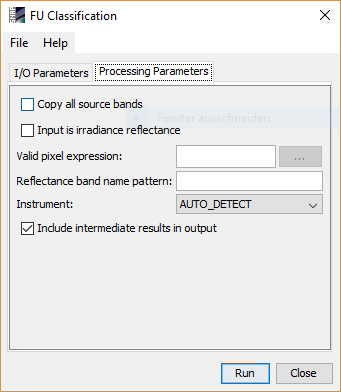
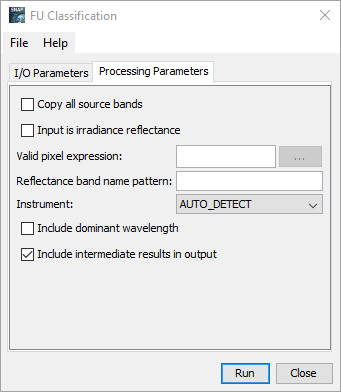
added option to include dominant wavelength in the output

diff --git a/s3tbx-fu-operator/src/main/javahelp/org/esa/s3tbx/s3tbx/fu/operator/docs/FuOp.html b/s3tbx-fu-operator/src/main/javahelp/org/esa/s3tbx/s3tbx/fu/operator/docs/FuOp.html
@@ -41,8 +41,10 @@ FU classification can be invoked in the Sentinel Toolbox from tool menu by selec
 
 <h4>Source Product Group</h4>
 
-<b>Source product:</b> Here the user specifies the source product reflectance. The combo box presents a list of all products opened
-in the Sentinel Toolbox. The user may select one of these or, by clicking on the button next to the combo box, choose a product
+<b>Source product:</b> Here the user specifies the source product reflectance. The combo box presents a list of all
+products opened
+in the Sentinel Toolbox. The user may select one of these or, by clicking on the button next to the combo box, choose a
+product
 from the file system.
 <br>
 
@@ -51,7 +53,8 @@ from the file system.
 <br>
 <br>
 
-<b>Save as:</b> checkbox to specify whether the target product should be saved to the file system. The combo box presents a
+<b>Save as:</b> checkbox to specify whether the target product should be saved to the file system. The combo box
+presents a
 list of available file formats. The text field or the button next to it allow to specify a target directory.
 <br>
 <br>
@@ -71,10 +74,13 @@ target product is not saved, it is opened in the Sentinel Toolbox automatically.
 <p><b>Multiply input reflectance with PI:</b><br>
     Checking this option will multiply the reflectance with PI.</p>
 <p><b>Valid pixel expression:</b><br>
-    This expression is used to validate pixels. Only valid pixels will be considerd for processing. If no expression is specified
-    the first applicable expression for the input product will be applied as in <a href="#valid_expressions"> Valid expressions</a>. If the
+    This expression is used to validate pixels. Only valid pixels will be considerd for processing. If no expression is
+    specified
+    the first applicable expression for the input product will be applied as in <a href="#valid_expressions"> Valid
+        expressions</a>. If the
     expression is set to
-    <b>TRUE</b>, then all pixels are considered to be valid. The ellipsis-button can be used to create a valid expression.</p>
+    <b>TRUE</b>, then all pixels are considered to be valid. The ellipsis-button can be used to create a valid
+    expression.</p>
 <br>
 <p>Default valid expressions</p>
 <table id="valid_expressions">
@@ -112,11 +118,14 @@ target product is not saved, it is opened in the Sentinel Toolbox automatically.
 
 <br>
 <p><b>Reflectance band name pattern:</b><br>
-    The used reflectance band names must match the given pattern. Useful, if there is more then one spectrum in the product.
-    Here a regular expression can be used.  There is a nice tutorial on <object classid="java:org.netbeans.modules.javahelp.BrowserDisplayer">
+    The used reflectance band names must match the given pattern. Useful, if there is more then one spectrum in the
+    product.
+    Here a regular expression can be used. There is a nice tutorial on
+    <object classid="java:org.netbeans.modules.javahelp.BrowserDisplayer">
         <param name="content" value="http://www.vogella.com/tutorials/JavaRegularExpressions/article.html">
         <param name="text" value="vogella.com">
-    </object>.
+    </object>
+    .
 </p>
 <p>Example expressions:</p>
 <table>
@@ -126,15 +135,29 @@ target product is not saved, it is opened in the Sentinel Toolbox automatically.
     </tr>
     <tr>
         <td>reflec_\d\d_band</td>
-        <td>Will match any name witch starts with 'reflec_' and ends with '_band'. in the middle must be two digits. E.g.: reflec_12_band</td>
+        <td>Will match any name witch starts with 'reflec_' and ends with '_band'. in the middle must be two digits.
+            E.g.: reflec_12_band
+        </td>
     </tr>
 
 </table>
 
-<p><b>Instrument:</b><br> Allows to select which instrument specific settings shall be used, if the auto detection fails.</p>
+<p><b>Instrument:</b><br> Allows to select which instrument specific settings shall be used, if the auto detection
+    fails.</p>
 
+<p><b>Include dominant wavelength:</b><br>
+    Whether or not to compute and include the dominant wavelength in the output. The default value is "false".<br><br>
+    A laser emits light at just one wavelength. When this pure light is observed by the human eye we can calculate the
+    chromaticity coordinates and the hue angle in the x-y diagram. The wavelength is called the "dominant wavelength"
+    and is positioned on the locus, the outer boundary in the x-y diagram that can be observed.<br><br>
+    The conversion from the hue angle to the dominant wavelength is done by a look-up-table.
+</p>
 <p><b>Include intermediate results in output:</b><br>
-    Whether or not the intermediate results shall be written to the target output. The default value is "true".</p>
+    Whether or not the intermediate results shall be written to the target output. The default value is "true".<br>
+    Intermediate results are results which are calculated during the computation of the hue angle.
+    The following bands belong to the intermediate results:<br>
+    X3, Y3, Z3, chrX, chrY, hue_band, poly_corr
+</p>
 
 
 <br>

diff --git a/s3tbx-fu-operator/src/main/java/org/esa/s3tbx/fu/DominantLambdaLookup.java b/s3tbx-fu-operator/src/main/java/org/esa/s3tbx/fu/DominantLambdaLookup.java
@@ -1,0 +1,91 @@
+/*
+ * Copyright (c) 2021.  Brockmann Consult GmbH (info@brockmann-consult.de)
+ *
+ * This program is free software; you can redistribute it and/or modify it
+ * under the terms of the GNU General Public License as published by the Free
+ * Software Foundation; either version 3 of the License, or (at your option)
+ * any later version.
+ * This program is distributed in the hope that it will be useful, but WITHOUT
+ * ANY WARRANTY; without even the implied warranty of MERCHANTABILITY or
+ * FITNESS FOR A PARTICULAR PURPOSE. See the GNU General Public License for
+ * more details.
+ *
+ * You should have received a copy of the GNU General Public License along
+ * with this program; if not, see http://www.gnu.org/licenses/
+ *
+ *
+ */
+
+package org.esa.s3tbx.fu;
+
+import org.esa.snap.core.util.io.CsvReader;
+import org.esa.snap.core.util.math.LookupTable;
+
+import java.io.IOException;
+import java.io.InputStream;
+import java.io.InputStreamReader;
+import java.nio.charset.StandardCharsets;
+import java.util.List;
+
+/**
+ * @author Marco Peters
+ */
+public class DominantLambdaLookup {
+
+    private final static String DEFAULT_LUT_RESOURCE = "hueAngel_domLambda.csv";
+    private static final String LUT_NOT_READABLE_ERRMSG = "Could not read LUT for converting hue angle to dominant wavelength.";
+    private LookupTable lookupTable;
+
+    /**
+     * Creates the default instance using the look-up-table provided in the resources at 'hueAngel_domLambda.csv'.
+     */
+    public DominantLambdaLookup() {
+        this(readLutValues());
+    }
+
+    private DominantLambdaLookup(double[][] lutValues) {
+        this(lutValues[0], lutValues[1]);
+    }
+
+    public DominantLambdaLookup(double[] hueAngles, double[] domLambda) {
+        if (hueAngles.length != domLambda.length) {
+            throw new IllegalStateException("Number of values for hue angles and dominant Wavelength must be equal");
+        }
+        lookupTable = new LookupTable(domLambda, hueAngles);
+    }
+
+    public double getDominantLambda(double hueAngle) {
+        if (hueAngle < 0) {
+            return Double.NaN;
+        }
+        return lookupTable.getValue(hueAngle);
+    }
+
+    private static double[][] readLutValues() {
+        final InputStream stream = DominantLambdaLookup.class.getResourceAsStream(DEFAULT_LUT_RESOURCE);
+        if (stream == null) {
+            throw new IllegalStateException(LUT_NOT_READABLE_ERRMSG);
+        }
+        return createLutValues(stream);
+    }
+
+    private static double[][] createLutValues(InputStream stream) {
+        final List<double[]> lutValues;
+        try (CsvReader csvReader = new CsvReader(new InputStreamReader(stream, StandardCharsets.UTF_8),
+                                                 new char[]{';'}, true, "#")) {
+            lutValues = csvReader.readDoubleRecords();
+        } catch (IOException e) {
+            throw new IllegalStateException(LUT_NOT_READABLE_ERRMSG, e);
+        }
+
+        final double[] hueAngle = new double[lutValues.size()];
+        final double[] domLambda = new double[lutValues.size()];
+        for (int i = 0; i < lutValues.size(); i++) {
+            double[] doubles = lutValues.get(i);
+            hueAngle[i] = doubles[0];
+            domLambda[i] = doubles[1];
+        }
+
+        return new double[][]{hueAngle, domLambda};
+    }
+}

diff --git a/s3tbx-fu-operator/src/main/java/org/esa/s3tbx/fu/FuOp.java b/s3tbx-fu-operator/src/main/java/org/esa/s3tbx/fu/FuOp.java
@@ -109,11 +109,15 @@ public class FuOp extends PixelOperator {
     private String validExpression;
 
     @Parameter(label = "Reflectance band name pattern", description = "The used reflectance band names must match the given pattern. " +
-                                                                      "Useful, if there is more then one spectrum in the product.")
+            "Useful, if there is more then one spectrum in the product.")
     private String reflectanceNamePattern;
 
     @Parameter(defaultValue = "AUTO_DETECT", description = "The instrument to compute FU for.")
     private Instrument instrument;
+
+    @Parameter(label = "Include dominant wavelength", defaultValue = "false",
+            description = "Whether or not the dominant wavelength shall be derived from the hue angle")
+    private boolean includeDominantLambda;
 
     @Parameter(label = "Include intermediate results in output", defaultValue = "true",
             description = "Whether or not the intermediate results shall be written to the target output")
@@ -151,7 +155,7 @@ public class FuOp extends PixelOperator {
 
         if (isValid) {
             RasterDataNode[] sourceNodes = Arrays.stream(sourceSamples).map(Sample::getNode).toArray(RasterDataNode[]::new);
-            double spectrum[] = getInputSpectrum(sourceSamples);
+            double[] spectrum = getInputSpectrum(sourceSamples);
             spectrum = instrument.preProcess(sourceProduct, sourceNodes, spectrum);
             spectrum = applyPiToIrradianceSpectrum(spectrum);
 
@@ -192,10 +196,10 @@ public class FuOp extends PixelOperator {
 
             autoDetectedInstrument = true;
         }
-        fuAlgo = new FuAlgo(instrument);
+        fuAlgo = new FuAlgo(instrument, includeDominantLambda);
         reflecBandNames = instrument.getReflectanceBandNames(sourceProduct, reflectanceNamePattern);
 
-        targetBandDefs = BandDefinition.create(includeIntermediateResults, instrument);
+        targetBandDefs = BandDefinition.create(instrument, includeIntermediateResults, includeDominantLambda);
     }
 
     /**

diff --git a/s3tbx-fu-operator/src/test/java/org/esa/s3tbx/fu/DominantLambdaLookupTest.java b/s3tbx-fu-operator/src/test/java/org/esa/s3tbx/fu/DominantLambdaLookupTest.java
@@ -1,0 +1,44 @@
+/*
+ * Copyright (c) 2021.  Brockmann Consult GmbH (info@brockmann-consult.de)
+ *
+ * This program is free software; you can redistribute it and/or modify it
+ * under the terms of the GNU General Public License as published by the Free
+ * Software Foundation; either version 3 of the License, or (at your option)
+ * any later version.
+ * This program is distributed in the hope that it will be useful, but WITHOUT
+ * ANY WARRANTY; without even the implied warranty of MERCHANTABILITY or
+ * FITNESS FOR A PARTICULAR PURPOSE. See the GNU General Public License for
+ * more details.
+ *
+ * You should have received a copy of the GNU General Public License along
+ * with this program; if not, see http://www.gnu.org/licenses/
+ *
+ *
+ */
+
+package org.esa.s3tbx.fu;
+
+import org.junit.Test;
+
+import static org.junit.Assert.assertEquals;
+
+/**
+ * @author Marco Peters
+ */
+public class DominantLambdaLookupTest {
+
+    @Test
+    public void getDominantLambda() {
+
+        final DominantLambdaLookup lookup = new DominantLambdaLookup();
+        assertEquals(Double.NaN, lookup.getDominantLambda(-5), 1.0e-8);
+        assertEquals(610, lookup.getDominantLambda(0.00), 1.0e-8);
+        assertEquals(587.92934782, lookup.getDominantLambda(24.21), 1.0e-6);
+        assertEquals(587.46739130, lookup.getDominantLambda(25.06), 1.0e-8);
+        assertEquals(587, lookup.getDominantLambda(25.92), 1.0e-8);
+        assertEquals(491.93946188, lookup.getDominantLambda(179.0), 1.0e-8);
+        assertEquals(493.73906105, lookup.getDominantLambda(171.02552198498304), 1.0e-8);
+        assertEquals(450, lookup.getDominantLambda(500), 1.0e-8);
+    }
+
+}

diff --git a/s3tbx-fu-operator/src/main/java/org/esa/s3tbx/fu/BandDefinition.java b/s3tbx-fu-operator/src/main/java/org/esa/s3tbx/fu/BandDefinition.java
@@ -21,6 +21,7 @@ abstract class BandDefinition {
     private static final String HUE_BAND_NAME = "hue_band";
     private static final String POLY_CORR_BAND_NAME = "poly_corr";
     private static final String HUE_ANGLE_BAND_NAME = "hue_angle";
+    private static final String DOMINANT_LAMBDA_BAND_NAME = "dominant_wvl";
     private static final String FU_VALUE_BAND_NAME = "FU";
 
     final String name;
@@ -51,7 +52,7 @@ abstract class BandDefinition {
     }
 
 
-    static BandDefinition[] create(boolean includeIntermediateResults, Instrument instrument) {
+    static BandDefinition[] create(Instrument instrument, boolean includeIntermediateResults, boolean includeDominantLambda) {
         List<BandDefinition> list = new ArrayList<>();
         if (includeIntermediateResults) {
             String bandNameSuffix = "_" + instrument.name();
@@ -104,6 +105,15 @@ abstract class BandDefinition {
                 targetSample.set(result.getHueAngle());
             }
         });
+        if (includeDominantLambda) {
+            list.add(new BandDefinition("The dominant wavelength derived from hue_angle", DOMINANT_LAMBDA_BAND_NAME, ProductData.TYPE_FLOAT32, Float.NaN, true) {
+                @Override
+                public void setTargetSample(FuResult result, WritableSample targetSample) {
+                    targetSample.set(result.getDominantLambda());
+                }
+            });
+
+        }
         list.add(new BandDefinition("", FU_VALUE_BAND_NAME, ProductData.TYPE_INT8, Byte.MAX_VALUE, true) {
             @Override
             public void setTargetSample(FuResult result, WritableSample targetSample) {

diff --git a/s3tbx-fu-operator/src/main/java/org/esa/s3tbx/fu/FuAlgo.java b/s3tbx-fu-operator/src/main/java/org/esa/s3tbx/fu/FuAlgo.java
@@ -21,28 +21,34 @@ import com.bc.ceres.core.Assert;
 class FuAlgo {
 
     public static final byte MAX_FU_VALUE = 21;
-    
+
     private static final double CONST_WHITE_POINT = 0.333333;
     private static final double[] ANGLE_OF_TRANSITIONS = new double[]{
             232.0, 227.168, 220.977, 209.994, 190.779, 163.084, 132.999,
             109.054, 94.037, 83.346, 74.572, 67.957, 62.186, 56.435,
             50.665, 45.129, 39.769, 34.906, 30.439, 26.337, 22.741, 19.0, 19.0
     };
+    private DominantLambdaLookup lambdaLookup;
 
     private double[] x3Factors;
     private double[] y3Factors;
     private double[] z3Factors;
     private double[] polyCoeffs;
 
-    public FuAlgo(Instrument instrument) {
+    FuAlgo(Instrument instrument, boolean includeDominantLambda) {
         x3Factors = instrument.getXFactors();
         y3Factors = instrument.getYFactors();
         z3Factors = instrument.getZFactors();
         polyCoeffs = instrument.getPolynomCoefficients();
+        if (includeDominantLambda) {
+            lambdaLookup = new DominantLambdaLookup();
+        }
     }
 
+    // just for testing
     FuAlgo() {
     }
+
 
     void setPolyCoeffs(double[] polyCoeffs) {
         this.polyCoeffs = polyCoeffs;
@@ -84,6 +90,9 @@ class FuAlgo {
         result.polyCorr = polyCorr;
         result.hueAngle = hue + polyCorr;
         result.fuValue = getFuValue(result.hueAngle);
+        if (lambdaLookup != null) {
+            result.domLambda = lambdaLookup.getDominantLambda(result.hueAngle);
+        }
         return result;
     }
 

diff --git a/s3tbx-fu-operator/src/test/java/org/esa/s3tbx/fu/FuOpTest.java b/s3tbx-fu-operator/src/test/java/org/esa/s3tbx/fu/FuOpTest.java
@@ -152,12 +152,15 @@ public class FuOpTest {
         HashMap<String, Object> fuParams = new HashMap<>();
         fuParams.put("validExpression", "true");
         fuParams.put("instrument", Instrument.MERIS);
+        fuParams.put("includeDominantLambda", true);
         Product fuResult = GPF.createProduct("FuClassification", fuParams, radianceProduct);
 
         int radianceFuValue = fuResult.getBand("FU").getSampleInt(0, 0);
-        float radianceHueValue = fuResult.getBand("hue_angle").getSampleFloat(0, 0);
         assertEquals(5, radianceFuValue);
+        float radianceHueValue = fuResult.getBand("hue_angle").getSampleFloat(0, 0);
         assertEquals(171.025528, radianceHueValue, 1e-6);
+        float domLambda = fuResult.getBand("dominant_wvl").getSampleFloat(0, 0);
+        assertEquals(493.73907470, domLambda, 1e-8);
     }
 
 

diff --git a/s3tbx-fu-operator/src/main/java/org/esa/s3tbx/fu/FuResultImpl.java b/s3tbx-fu-operator/src/main/java/org/esa/s3tbx/fu/FuResultImpl.java
@@ -17,6 +17,7 @@ class FuResultImpl implements FuResult {
     double chrY;
     double hue;
     double polyCorr;
+    double domLambda;
 
     @Override
     public double getHueAngle() {
@@ -61,5 +62,10 @@ class FuResultImpl implements FuResult {
     @Override
     public double getPolyCorr() {
         return polyCorr;
+    }
+
+    @Override
+    public double getDominantLambda() {
+        return domLambda;
     }
 }

diff --git a/s3tbx-fu-operator/src/main/java/org/esa/s3tbx/fu/FuResult.java b/s3tbx-fu-operator/src/main/java/org/esa/s3tbx/fu/FuResult.java
@@ -23,4 +23,6 @@ interface FuResult {
     double getHue();
 
     double getPolyCorr();
+
+    double getDominantLambda();
 }
